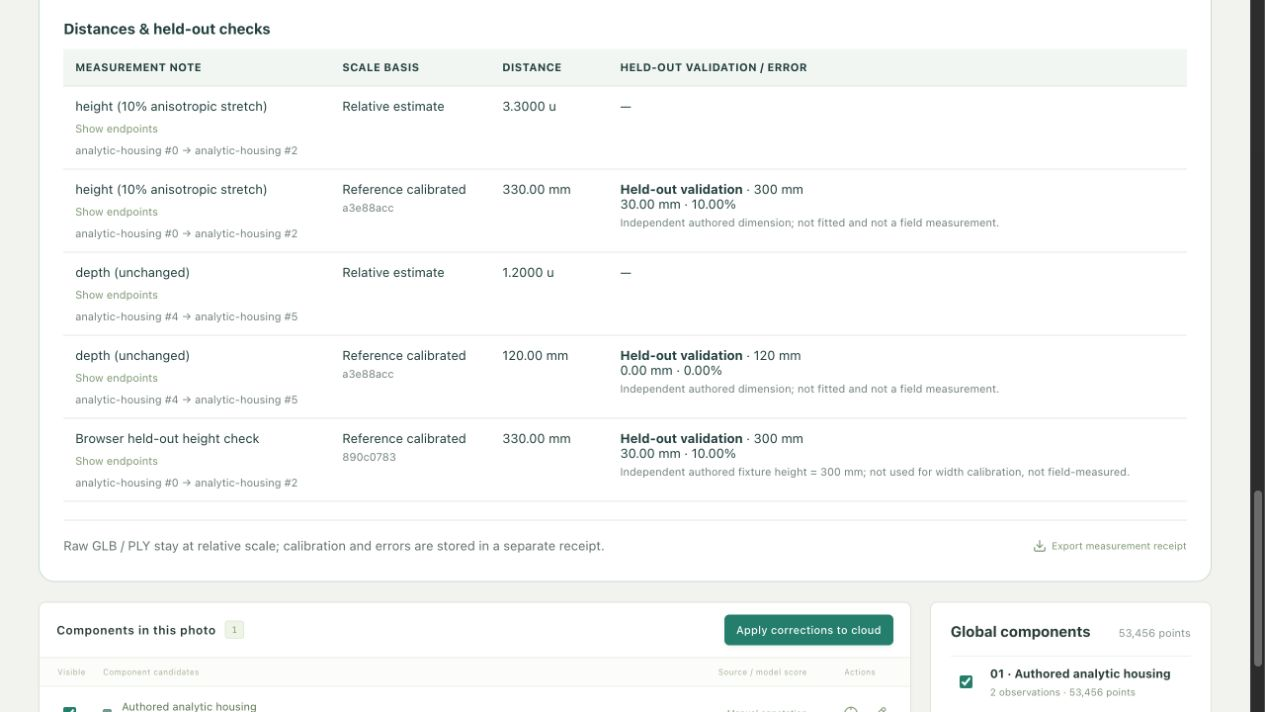
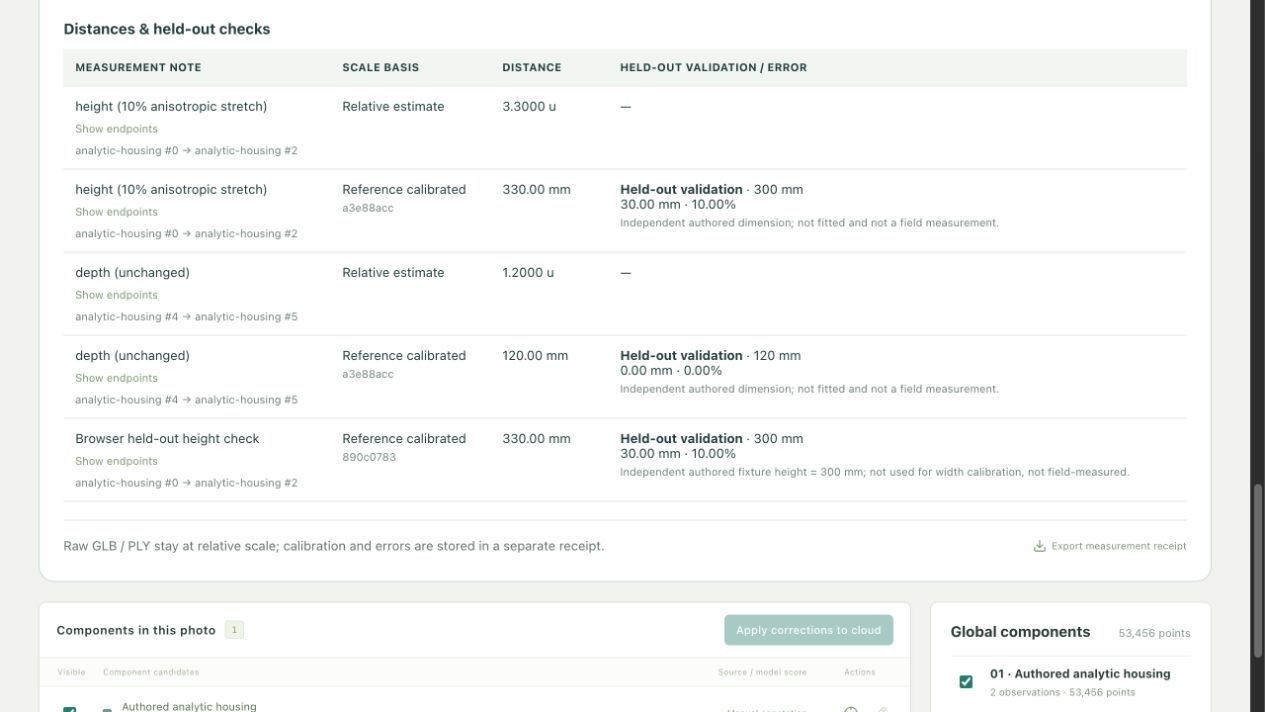
fix: keep analytic demo focused on supported measurement workflow

Changed region(s): [[0.5549, 0.8652, 0.7091, 0.927], [0.9866, 0.927, 1.0, 0.9579], [0.9866, 0.6798, 1.0, 0.7107]]

diff --git a/apps/web/src/components/MultiviewWorkbench.test.tsx b/apps/web/src/components/MultiviewWorkbench.test.tsx
@@ -175,3 +175,33 @@ it("reopening the same saved result releases the workspace lock", async () => {
   await waitFor(() => expect(open).toBeEnabled(), { timeout: 600 });
   await waitFor(() => expect(getMeasurements).toHaveBeenCalledTimes(2));
 });
+
+it("keeps authored measurement demos viewable without offering unsupported reconstruction edits", async () => {
+  const id = "b".repeat(32);
+  const user = userEvent.setup();
+  const api = fakeApi({
+    getMultiJob: async () => ({
+      ...multiCompleted,
+      id,
+      result: {
+        ...multiResult,
+        job_id: id,
+        model: { ...multiResult.model, not_model_inference: true },
+      },
+    }),
+  });
+  render(<MultiviewWorkbench apiClient={api} onBusyChange={vi.fn()} />);
+  await user.type(screen.getByLabelText("多图任务 ID"), id);
+  await user.click(screen.getByRole("button", { name: "打开已有结果" }));
+  await waitFor(() =>
+    expect(screen.getByRole("button", { name: "打开已有结果" })).toBeEnabled(),
+  );
+  expect(screen.getByRole("button", { name: "应用校正到点云" })).toBeDisabled();
+  expect(screen.getByRole("button", { name: "添加组件框" })).toBeDisabled();
+  expect(
+    screen.getByRole("region", { name: "标定与测距" }),
+  ).toBeInTheDocument();
+  expect(
+    screen.getByRole("link", { name: "导出测量记录" }),
+  ).toBeInTheDocument();
+});

diff --git a/apps/web/src/i18n/messages.ts b/apps/web/src/i18n/messages.ts
@@ -1,5 +1,9 @@
 // Chinese source text, followed by English and Spanish. Keep placeholders identical.
 export const messages = {
+  "解析测量演示未运行模型；组件细化和重建请使用真实多图结果。": [
+    "This analytic measurement demo runs no models. Use a real multi-view result for refinement and reconstruction.",
+    "Esta demostración analítica no ejecuta modelos. Use un resultado multivista real para refinar y reconstruir.",
+  ],
   查看参照端点: ["Show reference endpoints", "Ver extremos de referencia"],
   查看端点: ["Show endpoints", "Ver extremos"],
   标定与测距: ["Calibration & measurement", "Calibración y medición"],

diff --git a/apps/web/src/components/MultiviewWorkbench.tsx b/apps/web/src/components/MultiviewWorkbench.tsx
@@ -151,8 +151,12 @@ export function MultiviewWorkbench({
   const hiddenObservations = new Set(
     observations.filter((o) => hidden.has(o.component_id)).map((o) => o.id),
   );
+  const analyticDemo = state.result?.model.not_model_inference === true;
   const editable =
-    Boolean(asset && state.result) && !active && !annotation.draft;
+    Boolean(asset && state.result) &&
+    !analyticDemo &&
+    !active &&
+    !annotation.draft;
   const selected = observations.find(
     (o) => o.id === selectedObservation && o.asset_id === asset?.id,
   );

diff --git a/apps/web/src/i18n/index.tsx b/apps/web/src/i18n/index.tsx
@@ -9,6 +9,8 @@ const storageKey = "pv3d.locale";
 type Params = Record<string, string | number>;
 
 const serverMessages: Record<string, MessageKey> = {
+  AUTHORED_ANALYTIC_DEMO_NOT_FIELD_ACCURACY:
+    "解析测量演示未运行模型；组件细化和重建请使用真实多图结果。",
   MEASUREMENT_REFERENCE_REUSED:
     "标定线不能作为独立验证线。请选择另一条未参与标定的实测长度。",
   MEASUREMENT_GEOMETRY_CHANGED: "点云已变化，请重新载入结果并重新标定。",

diff --git a/docs/quality/2026-10-31-scale-measurement.md b/docs/quality/2026-10-31-scale-measurement.md
@@ -62,7 +62,7 @@
 - 开发与生产构建分开检查；生产端口8002，保留其他会话8000/5173。截图约1265×712 JPEG，无EXIF。三类SVG已实际浏览检查排版，源码可再生成。
 - 现存提示：Vite Three.js chunk约650kB未压缩，超过500kB提示；Starlette/httpx测试弃用提示。未隐藏，也未把构建通过当性能验收。
 
-截图SHA256：
+首轮截图SHA256（后续演示入口限制后的重拍另列）：
 
 | 文件 | SHA256 |
 |---|---|
@@ -86,3 +86,18 @@
 整合后的无ML环境：**111后端通过、2个可选ML跳过；65前端通过；构建、Ruff、diff通过**。随后正式项目根目录现有完整环境 `make test` 得到 **113后端通过、65前端通过**，`make build` / Ruff / 六SVG再生成检查通过。可选ML契约测试通过不等于新跑模型质量评估。照片、模型、原始实验和SQLite没有入库。首次提交的116个文件链接通过；3个本机ignored证据链接单列，不宣称新克隆自带。
 
 独立审查复查了重复恢复和第二次读取收据；额外恢复失败、取消和迟到响应检查通过。双语README、图示源代码、英文截图无新增重要问题；后续截图由主会话逐张实看、EXIF与SHA核对并保存。
+
+## 新克隆及解析演示收尾
+
+GitHub私有仓库默认main在 `d36bffb` 推送后，重新HTTPS克隆到本机临时空目录，未复用工作树的venv/node_modules/模型/数据：`uv sync --frozen --extra dev`、`npm ci`、111后端＋2跳过、65前端、构建、Ruff、6SVG检查均通过。重新生成的演示Job ID不同，但几何与329.999995/120.000005 mm结果一致；这仍是同一主机的新环境，不是5080或另一操作系统验收。
+
+收尾发现DEMO-001：解析demo直接生成GLB，没有VGGT的geometry.npz，不能进行逐图细化/组件重建；以前却显示这些可用入口。新增行为测试先因“应用校正”仍启用而RED，随后仅在`not_model_inference=true`的原创演示关闭编辑入口，测量保持可用，真实多图行为不变。警告三语显示并更新双语README。该限制不是模型故障，也不删除历史记录。新的66项前端及构建通过，后续截图和克隆同步记录继续追加。
+
+演示入口限制后已在真实生产网页核对：编辑按钮禁用，选点/测距可用；中英文各重拍总览和验证表。最终4张JPEG均1265×712、无EXIF，SHA256如下：
+
+| 文件 | 最终SHA256 |
+|---|---|
[4 lines of base64/hex data omitted]

diff --git a/README.en.md b/README.en.md
@@ -37,7 +37,7 @@ PV3D_DATA_DIR="$PWD/data/measurement-demo" make dev
 
 Open the [workbench](http://127.0.0.1:5173), choose **Multi-view cloud**, paste the script's **Job ID** into **Restore a point-cloud job**, and click **Open saved result**. Show the reference endpoints or recorded distance endpoints to see A/B and the line in the actual Three.js viewer. API docs: [8000/docs](http://127.0.0.1:8000/docs).
 
-This demo **directly authors analytic GLB geometry and receipts; it does not call detection or reconstruction models**. It verifies software behavior, not VGGT quality. Running it again appends immutable measurement history. Stop services with `Ctrl+C`. Demo data stays in ignored `data/measurement-demo/`; regenerate it on each machine. Generated Job IDs may differ.
+This demo **directly authors analytic GLB geometry and receipts; it does not call detection or reconstruction models**. It verifies software behavior, not VGGT quality. Viewing and measurement work; refinement and component reconstruction are disabled for the authored demo. Use real multi-view output for that workflow. Running it again appends immutable measurement history. Stop services with `Ctrl+C`. Demo data stays in ignored `data/measurement-demo/`; regenerate it on each machine. Generated Job IDs may differ.
 
 ## Run models on real photos
 

diff --git a/README.md b/README.md
@@ -37,7 +37,7 @@ PV3D_DATA_DIR="$PWD/data/measurement-demo" make dev
 
 打开 [工作台](http://127.0.0.1:5173)，切换“多角度点云”，将脚本输出的 **Job ID** 填入“恢复已有点云任务”，点击“打开已有结果”。查看参照端点或历史测距端点，就能在真实 Three.js 视图里看到 A/B 和连线。API 文档在 [8000/docs](http://127.0.0.1:8000/docs)。
 
-这个演示**直接生成解析 GLB 与记录，不调用识别或重建模型**。它验证软件行为，不能代表 VGGT 效果。再次执行会追加不可变测量历史。停止服务使用 `Ctrl+C`。演示数据存于 ignored `data/measurement-demo/`，每台机器可自行生成；不同机器的 Job ID 不保证相同。
+这个演示**直接生成解析 GLB 与记录，不调用识别或重建模型**。它验证软件行为，不能代表 VGGT 效果。演示可查看/测量，逐图细化与组件重建入口关闭；完整流程请用真实多图输出。再次执行会追加不可变测量历史。停止服务使用 `Ctrl+C`。演示数据存于 ignored `data/measurement-demo/`，每台机器可自行生成；不同机器的 Job ID 不保证相同。
 
 ## 用真实照片运行模型
 

diff --git a/docs/measurement/README.md b/docs/measurement/README.md
@@ -69,7 +69,7 @@ npm --prefix apps/web ci
 PV3D_DATA_DIR="$PWD/data/measurement-demo" make dev
 ```
 
-脚本直接生成原创解析 GLB/图示，不调用模型。200 mm 宽度标定；刻意拉长的高度由独立 300 mm 依据检出约 330 mm / 10% 误差；独立 120 mm 深度保持约 120 mm。原始 JSON 留在 ignored `data/measurement-demo/`，浮点残差不是现场精度。
+脚本直接生成原创解析 GLB/图示，不调用模型。解析结果只用于查看/测量，没有VGGT原几何缓存，组件细化和重建入口关闭；真实结果的这些功能保留。200 mm 宽度标定；刻意拉长的高度由独立 300 mm 依据检出约 330 mm / 10% 误差；独立 120 mm 深度保持约 120 mm。原始 JSON 留在 ignored `data/measurement-demo/`，浮点残差不是现场精度。
 
 | 现象 | 检查 |
 |---|---|

diff --git a/docs/quality/issues.md b/docs/quality/issues.md
@@ -79,3 +79,4 @@
 | DEV-002 | worktree工具路径限制、系统Python和文档cwd误用 | 本轮已恢复，有复现说明 | E05过程记录，ignored隔离worktree、显式.venv/root；无误写入文件 |
 | TEST-001 | 夹具RGB契约、查询歧义、job stub/import错误 | 测试输入已纠正 | E05保留过程；不将夹具问题当产品改善 |
 | DOC-001 | README缺英文对照与可验证配图 | 本轮已补齐 | README.md/README.en.md、6张可再生成SVG、4张真实解析演示截图，场景与精度边界明示 |
+| DEMO-001 | 原创解析GLB没有VGGT缓存，却暴露组件细化/重建入口 | 本轮已限制演示入口 | 解析模式仅查看/测量；真实结果不受影响。新增行为测试先RED后GREEN，原警告改为三语说明 |
